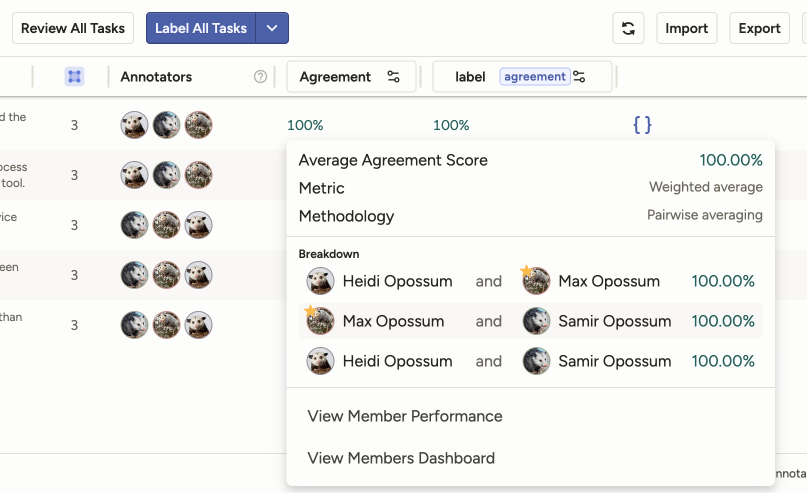
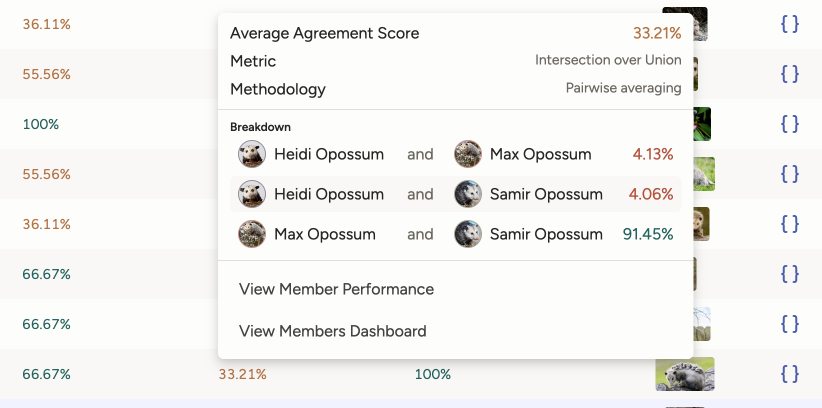
changes from review feedback

diff --git a/docs/source/guide/agreement_metrics.md b/docs/source/guide/agreement_metrics.md
@@ -12,13 +12,21 @@ parent: "stats"
 parent_enterprise: "stats"
 ---
 
-The following metrics are available out-of-the-box in Label Studio Enterprise. You can use them as is, or you can create your own [custom metrics](custom_metric).
+The following metrics are available for control tags out-of-the-box in Label Studio Enterprise. You can use them as is, or you can create your own [custom metrics](custom_metric).
 
-## Categorical
+## All control tags
 
 | Metric | Description | Tags | Methodology |
 |--------|-------------|------|-------------|
-| **Exact Match** | Evaluates whether annotation results exactly match, with optional label weights | Choices<br/><br/>Taxonomy<br/><br/>Pairwise<br/><br/>DateTime<br/><br/>And most other tag types | Pairwise, Consensus |
+| **Exact Match** | Evaluates whether annotation results exactly match, with optional label weights | All tags | Pairwise, Consensus |
+
+
+## Choices and taxonomy
+
+Categorical metrics are used for categorical control tags, such as `Choices` and `Taxonomy`.
+
+| Metric | Description | Tags | Methodology |
+|--------|-------------|------|-------------|
 | **Common Labels Matches** | Evaluates common label matches for a taxonomy of labels assigned to regions. Computes partial credit along taxonomy paths. | Taxonomy | Pairwise |
 | **Common Labels Matches (Threshold)** | Evaluates common label matches for a taxonomy of labels, returns binarized match based on threshold | Taxonomy | Pairwise, Consensus |
 | **Common Subtree Matches** | Evaluates common subtree matches for a taxonomy of choices. Computes IoU over the subtree of selected taxonomy nodes. | Taxonomy | Pairwise |
@@ -33,7 +41,7 @@ The following metrics are available out-of-the-box in Label Studio Enterprise. Y
 | **Numeric Difference** | Evaluates how similar two numeric values are based on their absolute difference | Number<br/><br/>Rating | Pairwise |
 | **Numeric Difference (Threshold)** | Evaluates whether two numeric values match within a specified tolerance | Number<br/><br/>Rating | Pairwise, Consensus |
 
-## Bounding Box (Rectangles)
+## Rectangles
 
 | Metric | Description | Tags | Methodology |
 |--------|-------------|------|-------------|
@@ -46,7 +54,7 @@ The following metrics are available out-of-the-box in Label Studio Enterprise. Y
 
 \* Nested Choices or TextArea tags inside RectangleLabels/Rectangle tags
 
-## Polygon
+## Polygons
 
 | Metric | Description | Tags | Methodology |
 |--------|-------------|------|-------------|
@@ -59,14 +67,14 @@ The following metrics are available out-of-the-box in Label Studio Enterprise. Y
 
 \* Nested Choices or TextArea tags inside PolygonLabels/Polygon tags
 
-## Brush and Bitmap
+## Brush
 
 | Metric | Description | Tags | Methodology |
 |--------|-------------|------|-------------|
 | **Brush Intersection over Union** | Evaluates pixel overlap between brush mask regions, returns raw IoU score | BrushLabels<br/><br/>Brush | Pairwise |
 | **Brush Intersection over Union (Threshold)** | Evaluates pixel overlap between brush mask regions, returns binarized match based on threshold | BrushLabels<br/><br/>Brush | Pairwise, Consensus |
 
-## Span and segment (Labels, Time Series, Paragraph)
+## Span and segment
 
 | Metric | Description | Tags | Methodology |
 |--------|-------------|------|-------------|
@@ -80,7 +88,7 @@ The following metrics are available out-of-the-box in Label Studio Enterprise. Y
 
 \* Nested Choices or TextArea tags inside Labels tags
 
-## HTML spans (HyperText)
+## HTML spans
 
 | Metric | Description | Tags | Methodology |
 |--------|-------------|------|-------------|
@@ -101,64 +109,19 @@ The following metrics are available out-of-the-box in Label Studio Enterprise. Y
 | **Text Similarity (Threshold)** | Uses the edit distance algorithm to determine if two text annotations match based on a similarity threshold | TextArea | Pairwise, Consensus |
 | **Semantic Similarity** | Evaluates text similarity by comparing semantic meaning using embeddings | User-defined | Pairwise, Consensus |
 
-## Video and keypoints
+## Video 
 
 | Metric | Description | Tags | Methodology |
 |--------|-------------|------|-------------|
 | **Exact Frames Matching for Video** | Evaluates video annotations by comparing exact frame matches | VideoRectangle | Pairwise |
 | **Exact Frames Matching for Video (Threshold)** | Evaluates video annotations by comparing exact frame matches, returns binarized match based on threshold | VideoRectangle | Pairwise, Consensus |
 | **Video Tracking** | Evaluates video tracking by comparing bounding boxes using IoU score across frames | User-defined | Pairwise, Consensus |
+
+## Keypoints
+
+| Metric | Description | Tags | Methodology |
+|--------|-------------|------|-------------|
 | **Keypoint Distance** | Evaluates keypoint annotations by checking if corresponding labeled keypoints are within a coordinate distance threshold | KeypointLabels<br/><br/>Keypoint | Pairwise |
-
-
-## Default metrics by tag
-
-The following table shows which metric is automatically selected when a dimension is created for each tag type.
-
-| Tag | Default Metric |
-|-----|----------------|
-| Choices | Exact Match |
-| Choices (multi-select enabled) | Jaccard Similarity |
-| Taxonomy | Exact Match |
-| Pairwise | Exact Match |
-| DateTime | Exact Match |
-| Number | Numeric Difference |
-| Rating | Numeric Difference |
-| RectangleLabels | Intersection over Union |
-| Rectangle | Intersection over Union |
-| PolygonLabels | Intersection over Union for Polygons |
-| Polygon | Intersection over Union for Polygons |
-| EllipseLabels | Exact Match |
-| BrushLabels | Brush Intersection over Union |
-| Brush | Brush Intersection over Union |
-| BitmaskLabels | Exact Match |
-| Labels | Span Overlap |
-| ParagraphLabels | Span Overlap |
-| TimeSeriesLabels | Span Overlap |
-| TimelineLabels | Span Overlap |
-| HyperTextLabels | Overlap over HTML Spans |
-| TextArea | Text Similarity |
-| VideoRectangle | Exact Frames Matching for Video |
-| KeypointLabels | Exact Match |
-| VectorLabels | Exact Match |
-
-### Nested tag defaults
-
-When a Choices or TextArea tag is nested inside a region tag, a separate default metric is applied:
-
-| Nested Tag Configuration | Default Metric |
-|--------------------------|----------------|
-| Choices inside RectangleLabels / Rectangle | Bounding Box Labels Similarity |
-| Choices inside PolygonLabels / Polygon | Polygon Labels Similarity |
-| Choices inside Labels | Span Labels Similarity |
-| Choices inside HyperTextLabels | HTML Span Labels Similarity |
-| Choices inside EllipseLabels / BitmaskLabels / BrushLabels | Exact Match |
-| TextArea inside RectangleLabels / Rectangle | Bounding Box Text Similarity |
-| TextArea inside PolygonLabels / Polygon | Polygon Text Similarity |
-| TextArea inside Labels | Span Text Similarity |
-| TextArea inside HyperTextLabels | HTML Span Text Similarity |
-| TextArea inside EllipseLabels / BitmaskLabels / BrushLabels | Exact Match |
-
 
 ## Examples
 

diff --git a/docs/source/guide/stats.md b/docs/source/guide/stats.md
@@ -51,7 +51,7 @@ Label Studio aggregates per-control-tag scores into a single task-level score.
 
 By default, this is calculated as the mean of all control-tag scores. This is what appears in the main **Agreement** column when you do not filter by control tag.
 
-You can customize how overall agreement is calculated by setting the **weight** of different control tags when calculating agreement. This ensures that a critical control tag is has more bearing on the overall agreement score than a less important control tag.
+You can customize how overall agreement is calculated by setting the **weight** of different control tags when calculating agreement. This ensures that a critical control tag is has more bearing on the overall agreement score than a less important control tag. See [Configure weight for the overall agreement](#Configure-weight-for-the-overall-agreement).
 
 ## Categorical vs. non-categorical control tags
 
@@ -457,15 +457,19 @@ You have the following raw IoU scores:
 
 Annotator 1 and Annotator 2 agree, giving us a consensus score of `2/3 = .66`.
 
-**How the threshold changes the result:**
+**Stronger IoU agreements**
 
-To give a more complex example, say you lowered the threshold to `25%`. This means that any pair with IoU >= 0.25 counts as a match (`1`), and anything below is not a match (`0`).
+There will be situations where there is more agreement than simply 2 annotators agreeing, but less than all three agreeing. 
 
-- Annotators 1 vs Annotator 2: `.53` >= `.25` → match = 1
-- Annotators 1 vs Annotator 3: `.24` <= `.25` → no match = 0
-- Annotators 2 vs Annotator 3: `.45` >= `.25` → match = 1
+For example, in the following image: 
 
-This raises the agreement score to `80.47%` to reflect the higher agreement between Annotator 1 and Annotator 2.
+![Screenshot of opossum bboxes](/images/review/agreement-bbox-opossum.png)
+
+* Annotator 1 and Annotator 2 have strong overlap
+* Annotator 2 and Annotator 3 have strong overlap
+* Annotator 1 and 3 have weak overlap
+
+In these cases, the agreement will be higher to reflect that there is stronger agreement than a simple 2/3 consensus. (In the example above, the agreement score is `80.47%`.)
 
   </div>
 </div>

diff --git a/docs/source/guide/manage_data.md b/docs/source/guide/manage_data.md
@@ -163,7 +163,9 @@ Click any agreement column to select specific annotators and models that you wan
 
 ![Screenshot](/images/review/agreement-dm-modal.png)
 
-You can select a subset of annotators, models, or models and annotators to compare. 
+By default, all annotators (and not models) are selected for agreement calculation.
+
+However, you can customize this to select a subset of annotators, models, or models and annotators to compare. 
 
 For example, if you have 10 annotators and you select 3, the overall agreement score and the control tag agreement scores will be recalculated to reflect only your selections. 
 
@@ -183,7 +185,7 @@ Label Studio will apply whatever agreement metrics and methodology you have conf
 
 ### Agreement popover
 
-Click any agreement column to see a popover that has information about the methodology used. 
+Click any agreement column to see a popover that has information about the metric and methodology used. 
 
 If you are using **Pairwise** methodology, you will see a breakdown of agreement scores for the selected annotators and models.
 
